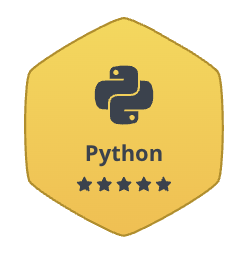
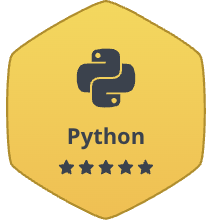
Added HackerRank Python Gold Badge to certifications section

diff --git a/index.html b/index.html
@@ -357,7 +357,7 @@
                 <div class="flip-card" style="flex: 1 0 30%; margin: 15px; max-width: 350px;">
                     <div class="flip-card-inner">
                         <div class="flip-card-front">
-                            <img src="images/python.png" alt="HackerRank Python Gold Badge" style="width: 100%; max-width: 350px; border-radius: 10px; box-shadow: 0 4px 8px rgba(0, 0, 0, 0.2);">
+                            <img src="images/python.png" alt="HackerRank Python Gold Badge" style="width: 100px; height: auto; margin-bottom: 15px; border-radius: 10px; box-shadow: 0 4px 8px rgba(0, 0, 0, 0.2);">
                         </div>
                         <div class="flip-card-back">
                             <p><strong>Skills - HackerRank Gold Badge </strong> <br> - Python </p>
